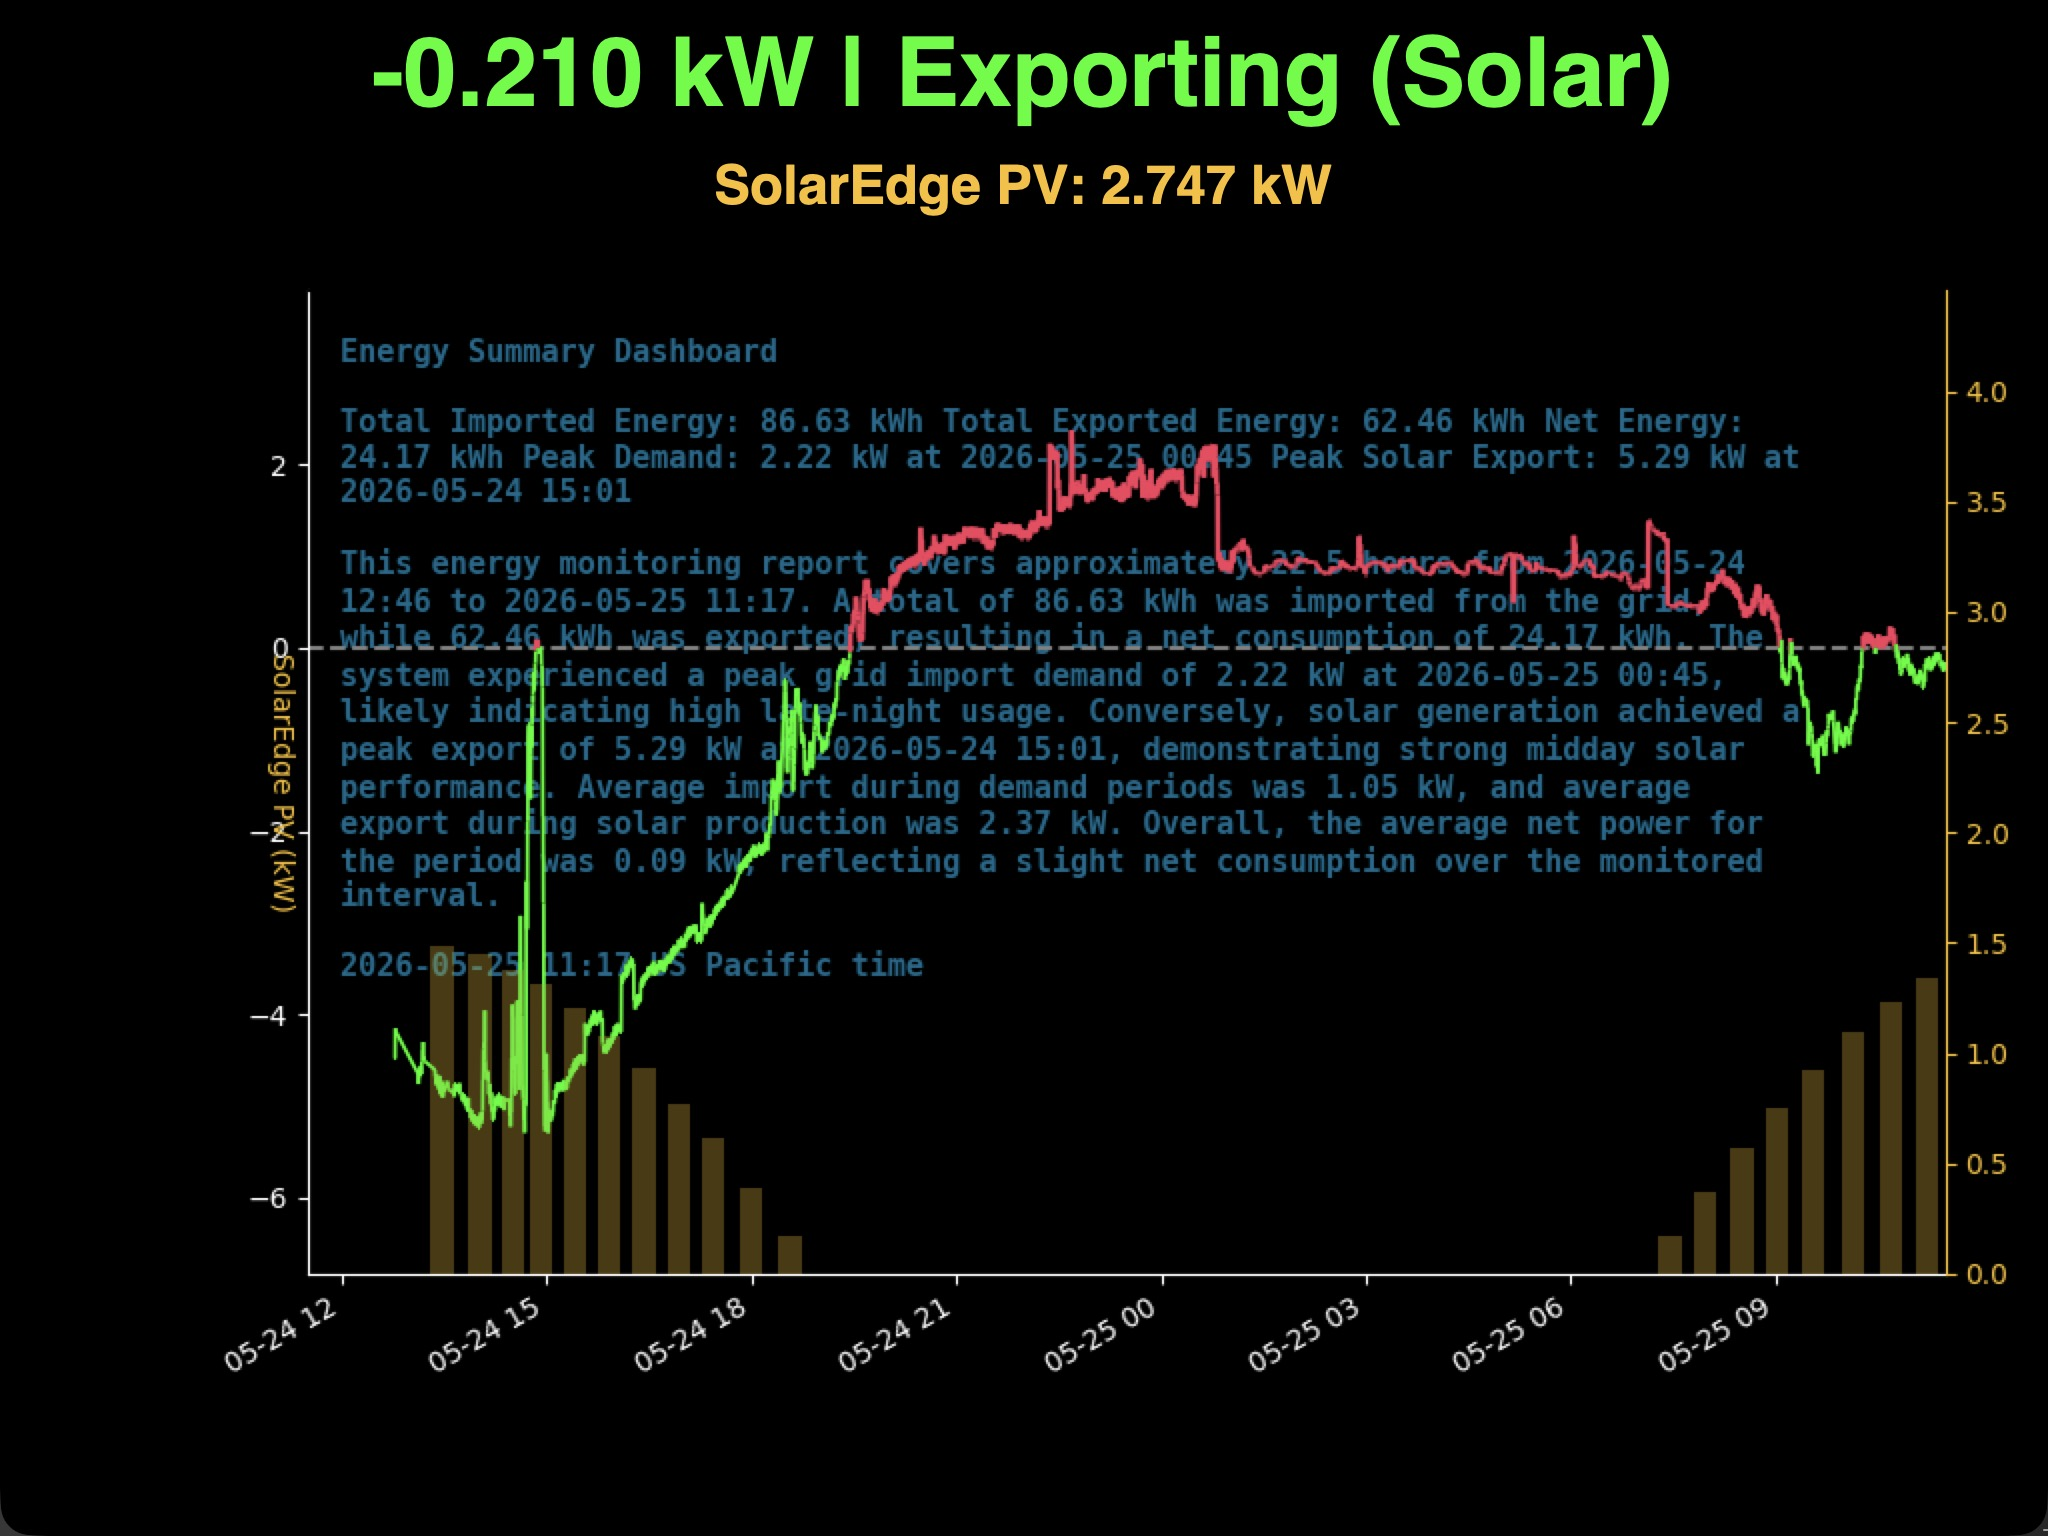
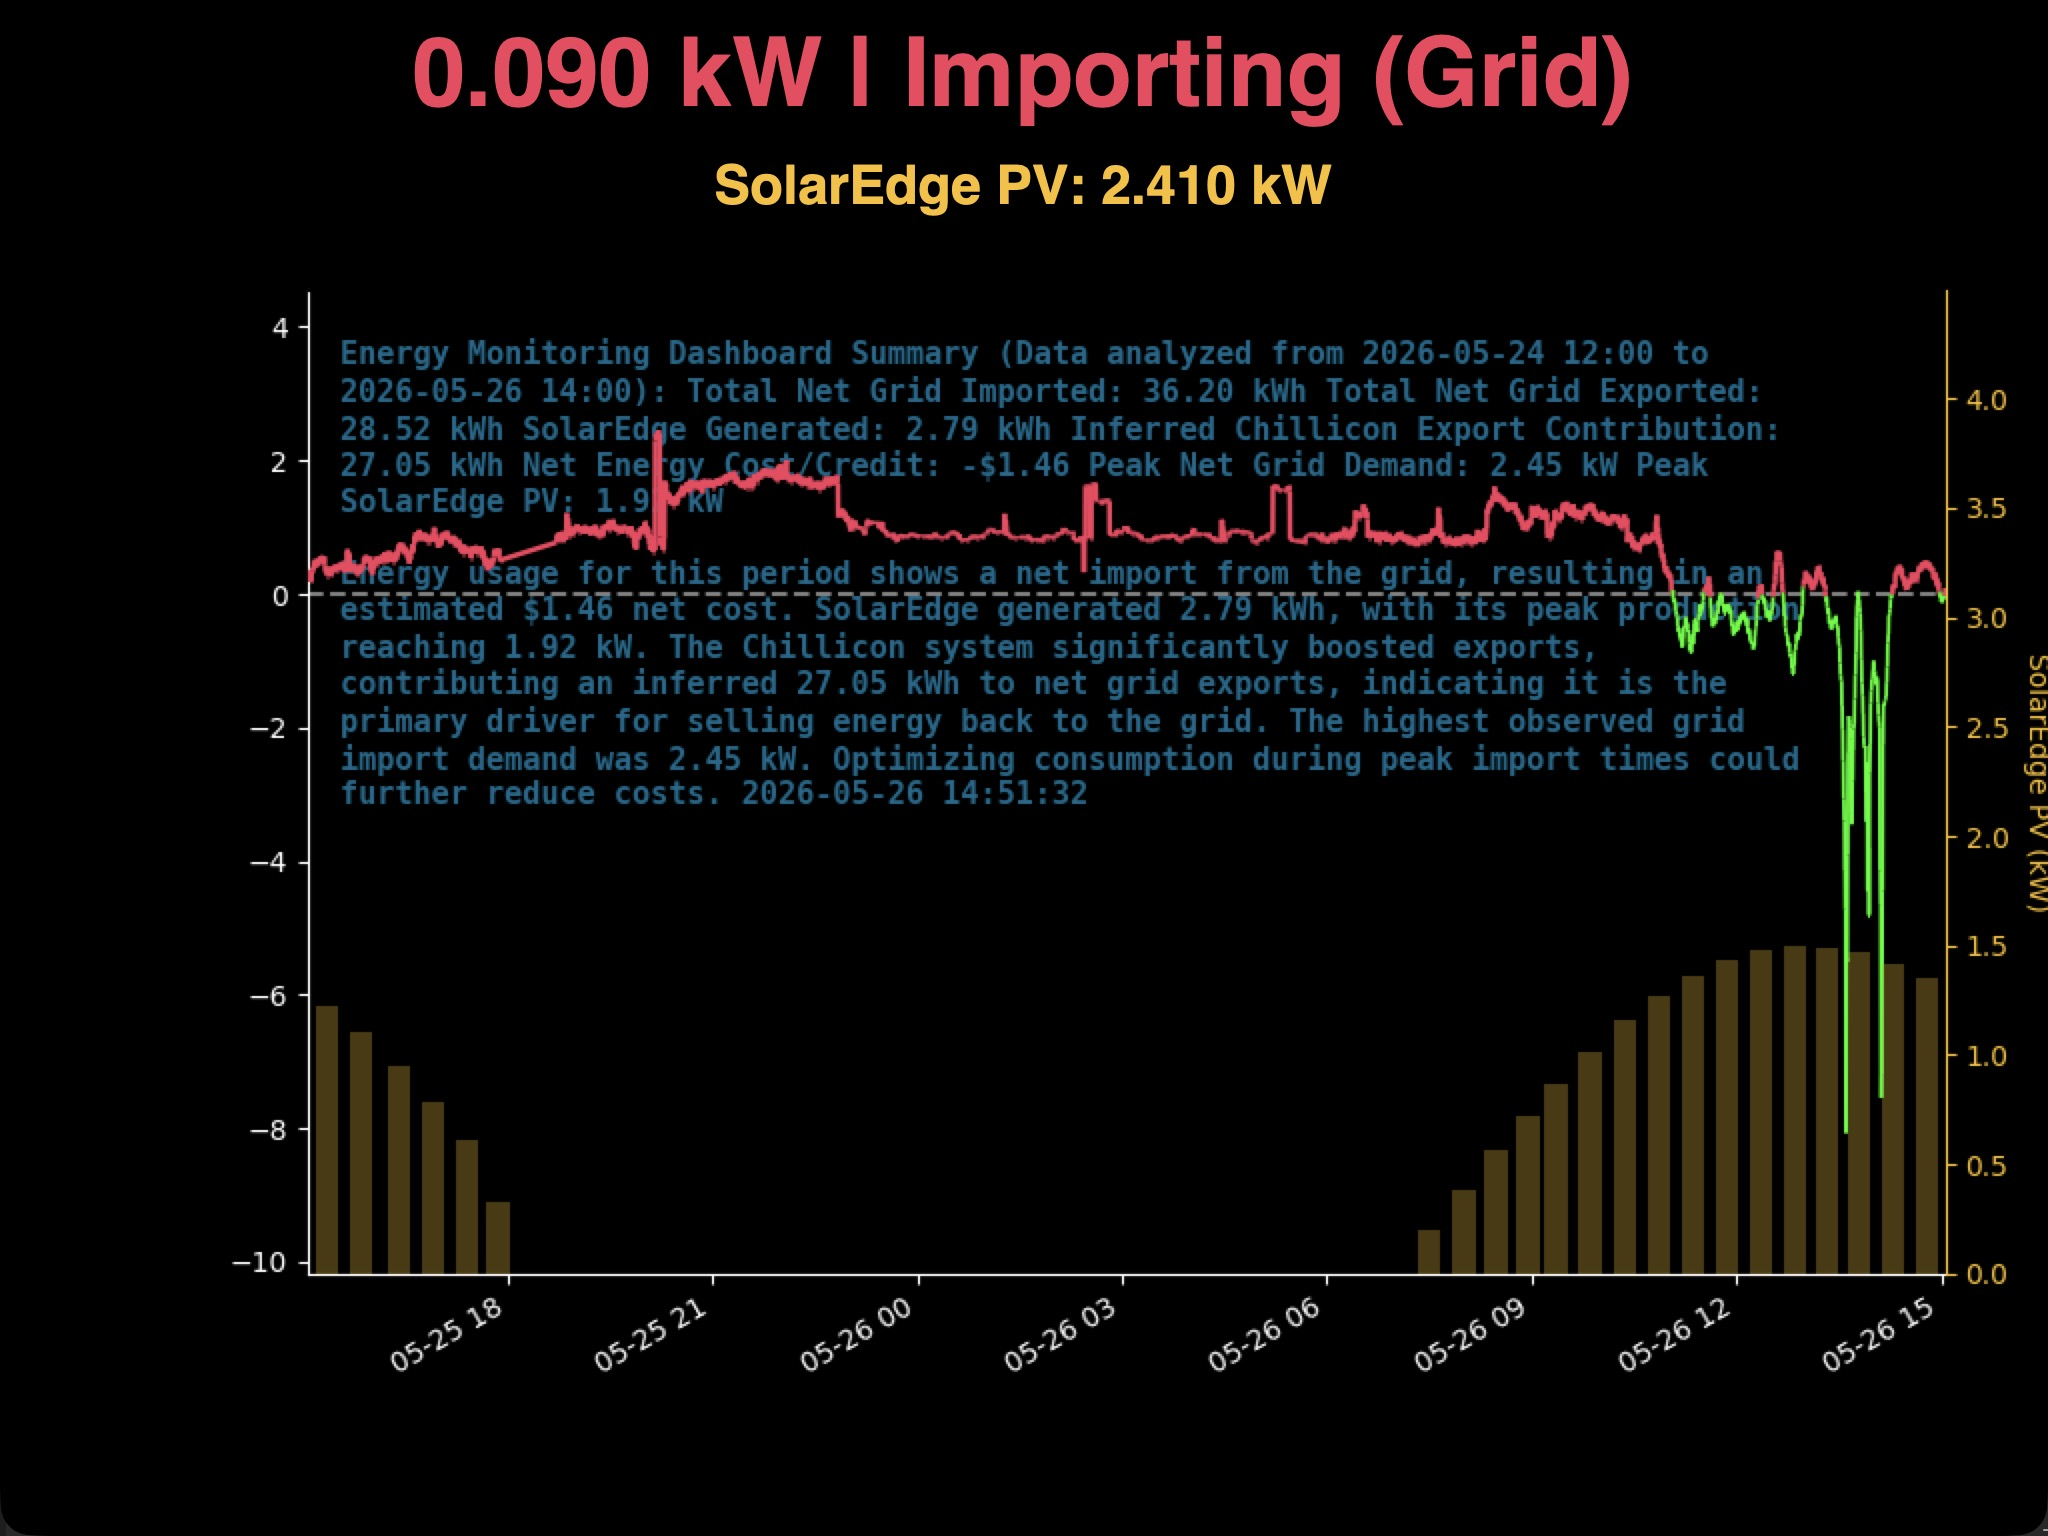
Fix SolarEdge Y-axis label placement to the right side

diff --git a/dashboard.py b/dashboard.py
@@ -152,6 +152,7 @@ class GridDashboard(tk.Tk):
             self.ax_bar = self.ax.twinx()
             self.ax_bar.set_ylim(0, 10)  # Fixed arbitrary high limit so bars stay at bottom
             self.ax_bar.tick_params(colors='#fbbf24')
+            self.ax_bar.yaxis.set_label_position('right')
             self.ax_bar.spines['right'].set_color('#fbbf24')
             self.ax_bar.spines['left'].set_color('none')
             self.ax_bar.spines['top'].set_color('none')
@@ -591,6 +592,7 @@ class GridDashboard(tk.Tk):
         if not self.solar_off and hasattr(self, 'ax_bar'):
             self.ax_bar.clear()
             self.ax_bar.tick_params(colors='#fbbf24')
+            self.ax_bar.yaxis.set_label_position('right')
             self.ax_bar.spines['right'].set_color('#fbbf24')
             self.ax_bar.spines['left'].set_color('none')
             self.ax_bar.spines['top'].set_color('none')
@@ -804,10 +806,11 @@ class GridDashboard(tk.Tk):
 
             from google import genai
             from google.genai import types
+            import httpx
 
             # 5. Initialize client based on available auth method
             model_name = os.environ.get("GEMINI_MODEL", "gemini-2.5-flash")
-            http_opts = types.HttpOptions(timeout=60.0)
+            http_opts = types.HttpOptions(httpx_client=httpx.Client(timeout=60.0))
             if api_key:
                 logging.info("Initializing GenAI client using developer API key.")
                 client = genai.Client(api_key=api_key, http_options=http_opts)

diff --git a/render_local_plot.py b/render_local_plot.py
@@ -70,6 +70,7 @@ class OfflineViewer(tk.Tk):
         self.ax_bar = self.ax.twinx()
         self.ax_bar.set_ylim(0, 10)  # Fixed arbitrary high limit so bars stay at bottom
         self.ax_bar.tick_params(colors='#fbbf24')
+        self.ax_bar.yaxis.set_label_position('right')
         self.ax_bar.spines['right'].set_color('#fbbf24')
         self.ax_bar.spines['left'].set_color('none')
         self.ax_bar.spines['top'].set_color('none')
@@ -257,6 +258,7 @@ class OfflineViewer(tk.Tk):
                 
                 self.ax_bar.clear()
                 self.ax_bar.tick_params(colors='#fbbf24')
+                self.ax_bar.yaxis.set_label_position('right')
                 self.ax_bar.spines['right'].set_color('#fbbf24')
                 self.ax_bar.spines['left'].set_color('none')
                 self.ax_bar.spines['top'].set_color('none')
